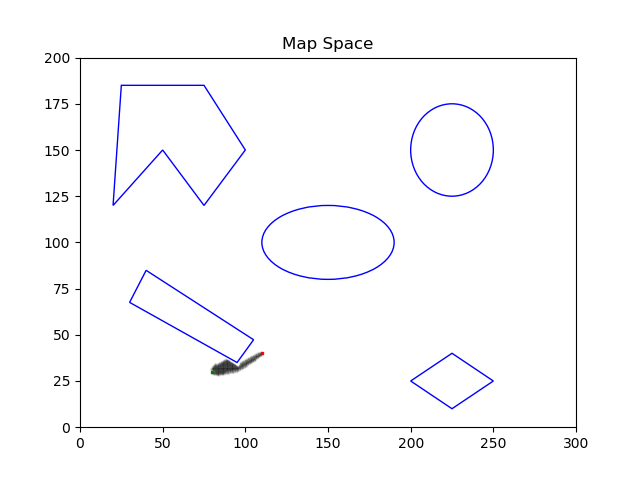
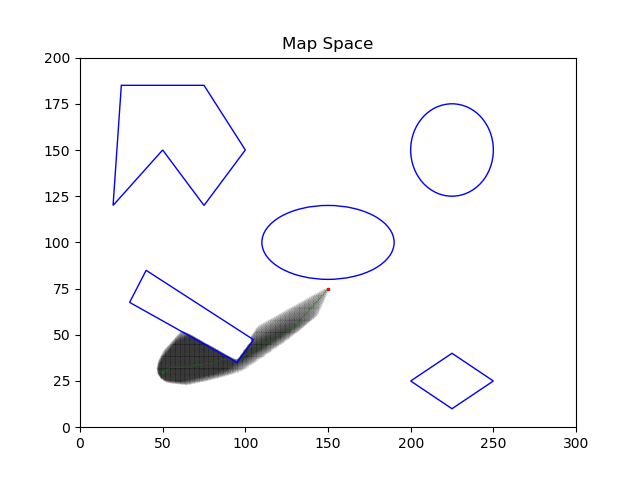
Final submission

Changed region(s): [[0.2188, 0.5938, 0.5312, 0.8125]]

diff --git a/Astar_rigid.py b/Astar_rigid.py
@@ -51,7 +51,7 @@ def get_goal():
     if ans=='':  x=150
     else:  x=int(ans)
     ans=(input("Enter the target y coordinate (default=150): "))
-    if ans=='':  y=75
+    if ans=='':  y=150
     else:  y=int(ans)
     ans=(input("Enter the goal theta (30-deg increments, default=same as start): "))
     if ans=='':  theta_g=theta_s
